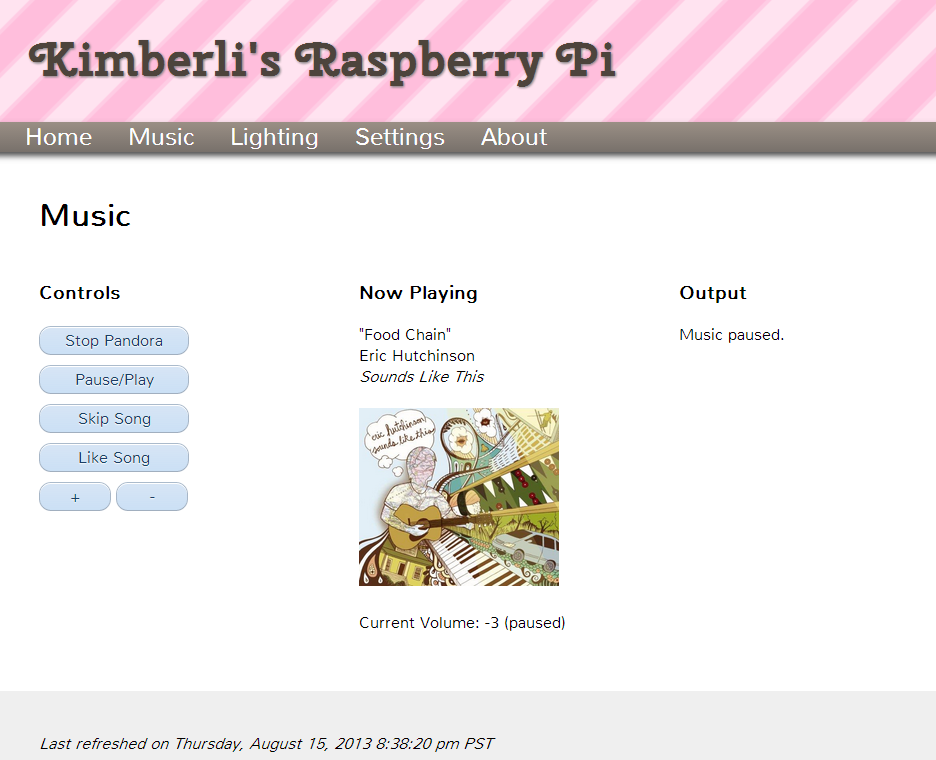
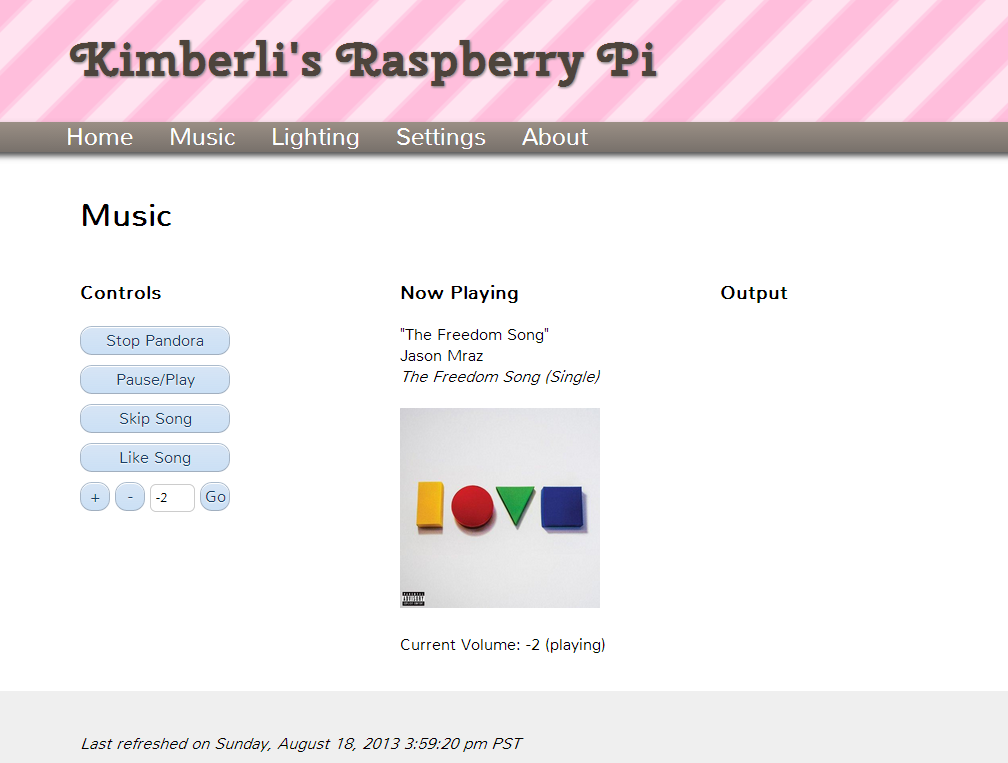
August 18 - Added advanced volume control

diff --git a/css/style.css b/css/style.css
@@ -221,25 +221,54 @@
 	input[type=submit] {
 		width: 72px;
 	}
-
-	input[type=text] {
+	.button.tiny,
+	input[type=submit].tiny {
+		width: 30px;
+	}
+	input[type=text],
+	input[type=number] {
 		font-family: 'Nunito', sans-serif;
 		padding-left: 5px;
-		padding-right: 30px;
 		border: 1px solid #CCCCCC;
-		width: 400px;
 		height: 24px;
 		border-radius: 6px;
 		-moz-border-radius: 6px;
 		-webkit-border-radius: 6px;
 	}
+
+	input[type=text] {
+		width: 400px;
+	}
+
+	input[type=number] {
+		width: 38px;
+	}
+
 	input[type=text]:hover,
-	input[type=text]:focus {
+	input[type=text]:focus,
+	input[type=number]:hover,
+	input[type=number]:focus {
 		outline: none;
 		-moz-box-shadow: 0 0 6px #98C1DB;
 		-webkit-box-shadow: 0 0 6px #98C1DB;
 		box-shadow: 0 0 6px #98C1DB;
 		border-color: #98C1DB;
+	}
+
+	input::-webkit-outer-spin-button,
+	input::-webkit-inner-spin-button {
+		display: none;
+		-webkit-appearance: none;
+		margin: 0; /* <-- Apparently some margin are still there even though it's hidden */
+	}
+	.first {
+		position: relative;
+		left: -35px;
+	}
+	.default {
+		position: relative;
+		top: 156px;
+		left: 120px;
 	}
 }
 /* -------------- MEDIA QUERIES -------------- */

diff --git a/music.php b/music.php
@@ -10,7 +10,7 @@
 	$DIR = "/var/www/code";
 	if (isset($_POST['start'])) {
 		exec("$DIR/pandora.sh startbg",$output,$retval);
-		echo '<script>setTimeout(function(){parent.window.location.reload(true)},7000);</script>';
+		echo '<script>setTimeout(function(){parent.window.location.reload(true)},7500);</script>';
 	}
 	if (isset($_POST['pause'])){
 		exec("$DIR/pandora.sh pause",$output,$retval);
@@ -28,18 +28,26 @@
 	if (isset($_POST['vdown'])) {
 		exec("$DIR/pandora.sh voldown",$output,$retval);
 	}
+	if (isset($_POST['volset'])) {
+		$TARGETVOL = $_POST['vol'];
+		exec("$DIR/pandora.sh vol $TARGETVOL",$output,$retval);
+	}
 	if (isset($_POST['stop'])) {
 		exec("$DIR/pandora.sh stop",$output,$retval);
 	}
+
 	exec("$DIR/pandora.sh status 2>&1", $status, $retv);
+	$VOLUME = $status[1];
+	$STATE = $status[2];
 
 	echo "\t<h3>Controls</h3>\n";
 	echo "\t<form method='post'>\n";
+	echo "\t\t<input type='submit' class='default tiny' name='volset' value='Go'>\n";
 	if (sizeof($status) > 1) {
-		echo "\t\t<button class='button' name='stop'>Stop Pandora</button>\n";
+		echo "\t\t<button class='first button' name='stop'>Stop Pandora</button>\n";
 	}
 	else {
-		echo "\t\t<button class='button' name='start'>Start Pandora</button>\n";
+		echo "\t\t<button class='first button' name='start'>Start Pandora</button>\n";
 	}
 	echo "\t\t<div class='form-space'></div>\n";
 	echo "\t\t<button class='button' name='pause'>Pause/Play</button>\n";
@@ -48,8 +56,9 @@
 	echo "\t\t<div class='form-space'></div>\n";
 	echo "\t\t<button class='button' name='like'>Like Song</button>\n";
 	echo "\t\t<div class='form-space'></div>\n";
-	echo "\t\t<button class='button half' name='vup'>+</button>\n";
-	echo "\t\t<button class='button half' name='vdown'>-</button>\n";
+	echo "\t\t<button class='button tiny' name='vup'>+</button>\n";
+	echo "\t\t<button class='button tiny' name='vdown'>-</button>\n";
+	echo "\t\t<input type='number' name='vol' min='-15' max='15' value='" . $VOLUME . "'>\n";
 	echo "\t</form>\n";
 	echo "</div>\n\n";
 
@@ -58,11 +67,11 @@
 	echo "\t<p>\n";
 
 	if (sizeof($status) > 1) {
-		echo "\"" . $status[4] . "\"" . "<br>\n";
+		echo "\t\"" . $status[4] . "\"" . "<br>\n";
 		echo "\t" . $status[3] . "<br>\n";
 		echo "\t<em>" . $status[8] . "</em><br><br>\n";
 		echo "\t<img src='" . $status[7] . "' class='album'><br><br>\n";
-		echo "\t" . $status[1] . "  (" . $status[2] . ")<br>\n";
+		echo "\tCurrent Volume: " . $status[1] . "  (" . $status[2] . ")<br>\n";
 	}
 	else {
 		echo $status[0];
@@ -80,6 +89,6 @@
 	echo "\n";
 ?>
 </div>
-<?php 
+<?php
 	after_content();
 ?>

diff --git a/functions.php b/functions.php
@@ -1,7 +1,7 @@
 <?php
 
 //call this function to set up the head tags
-	function head() { 
+	function head() {
 		echo "<head>\n";
 		echo "\t<title>Kimberli's Raspberry Pi</title>\n";
 		echo "\t<meta http-equiv='Content-Type' content='text/html; charset=UTF-8' />\n";
@@ -15,7 +15,7 @@
 		echo "\t<script src='http://ajax.googleapis.com/ajax/libs/jquery/1.7.1/jquery.min.js'></script>\n";
 		echo "\t<script>\n";
 		echo "\t\t$(document).ready(function() {\n";
-		echo "\t\t \$('.menu-button').click(function(){\$('.menu-button,.menu').toggleClass('open');});\n";
+		echo "\t\t\t$('.menu-button').click(function(){\$('.menu-button,.menu').toggleClass('open');});\n";
 		echo "\t\t});\n";
 		echo "\t</script>\n";
 		echo "</head>\n";
@@ -24,7 +24,7 @@
 //call this function before using the classes "col" and "one-whole", "one-half", or "one-third"
 //this function opens the "section page-text" div tag
 //the parameter is the page's title
-	function before_content($pagetitle) { 
+	function before_content($pagetitle) {
 		echo "<body class='home-page'>\n";
 		echo "\t<div class='wrapper'>\n";
 		echo "\t\t<div class='section header-holder'>\n";
